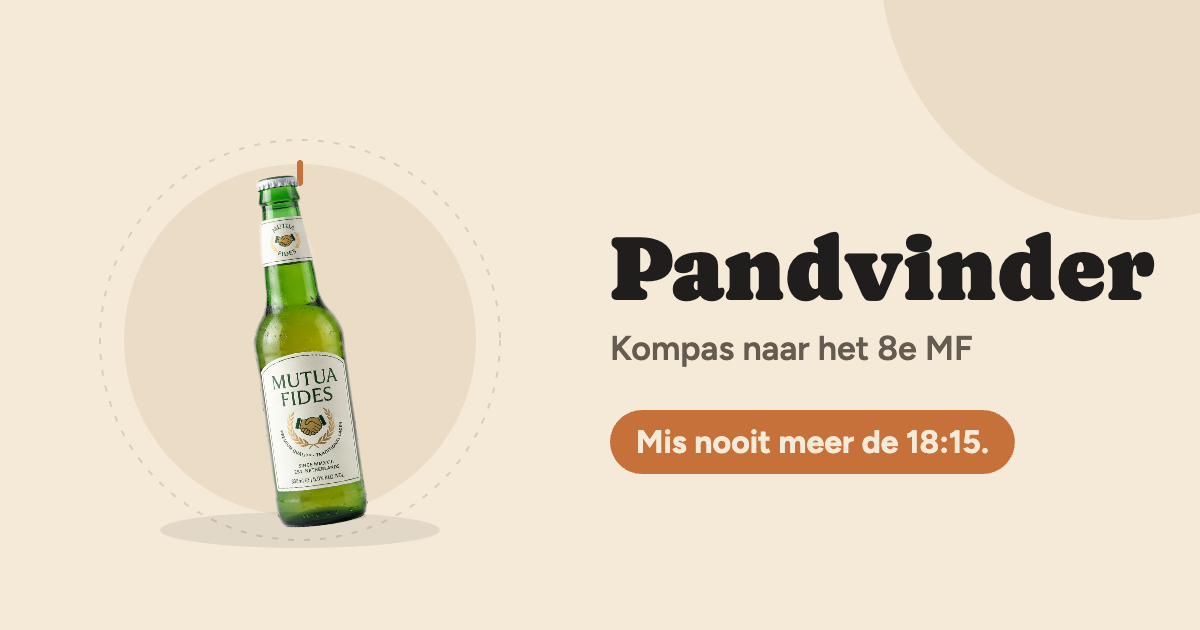
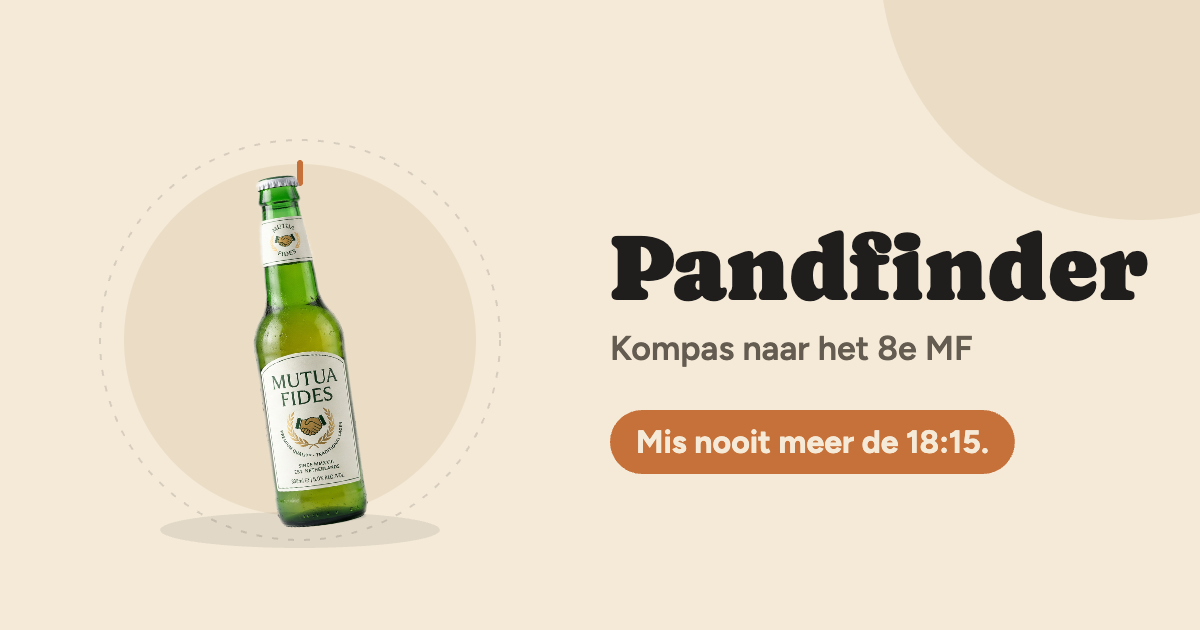
Rename the app to Pandfinder everywhere

Changed region(s): [[0.555, 0.3619, 0.9867, 0.4825], [0.5242, 0.3619, 0.555, 0.3921]]

diff --git a/index.html b/index.html
@@ -10,23 +10,23 @@
 <meta name="theme-color" content="#f5ead8">
 <meta name="mobile-web-app-capable" content="yes">
 <meta name="apple-mobile-web-app-capable" content="yes">
-<meta name="apple-mobile-web-app-title" content="Pandvinder">
+<meta name="apple-mobile-web-app-title" content="Pandfinder">
 <meta name="apple-mobile-web-app-status-bar-style" content="default">
 <link rel="preconnect" href="https://fonts.googleapis.com">
 <link rel="preconnect" href="https://fonts.gstatic.com" crossorigin>
 <link rel="stylesheet" href="https://fonts.googleapis.com/css2?family=Caprasimo&family=Figtree:wght@400;600;700&display=swap">
-<title>Pandvinder - kompas naar het 8e MF</title>
+<title>Pandfinder - kompas naar het 8e MF</title>
 <meta name="description" content="Een kompas dat altijd naar Mutua Fides in Groningen wijst. Mis nooit meer de 18:15.">
 <meta property="og:type" content="website">
 <meta property="og:url" content="https://pandfinder.nl">
-<meta property="og:title" content="Pandvinder">
+<meta property="og:title" content="Pandfinder">
 <meta property="og:description" content="Een kompas dat altijd naar Mutua Fides in Groningen wijst. Mis nooit meer de 18:15.">
 <meta property="og:image" content="https://pandfinder.nl/og-image.png">
 <meta property="og:image:width" content="1200">
 <meta property="og:image:height" content="630">
 <meta property="og:locale" content="nl_NL">
 <meta name="twitter:card" content="summary_large_image">
-<meta name="twitter:title" content="Pandvinder">
+<meta name="twitter:title" content="Pandfinder">
 <meta name="twitter:description" content="Een kompas dat altijd naar Mutua Fides in Groningen wijst. Mis nooit meer de 18:15.">
 <meta name="twitter:image" content="https://pandfinder.nl/og-image.png">
 <style>
@@ -1064,7 +1064,7 @@
   <!-- Start screen -->
   <div class="screen active" id="start-screen">
     <img src="mutua-fides-bottle.png" alt="" style="width:96px;height:auto;transform:rotate(-8deg);margin-bottom:20px;">
-    <h1>Pandvinder</h1>
+    <h1>Pandfinder</h1>
     <p class="sub">Wijst de weg naar het 8e pand, waar je ook bent ter wereld. Heeft locatie- en kompastoestemming nodig.</p>
     <button class="primary" id="start-btn">Wijs me de weg</button>
     <button type="button" class="install-btn" id="install-btn" hidden>Installeer als app</button>
@@ -1707,7 +1707,7 @@
   });
   celebrateShareBtn.addEventListener("click", async () => {
     const state = loadWitness();
-    const text = `Ik heb 18:15 net weer gehaald bij Pandvinder - ${state.streak} op rij!`;
+    const text = `Ik heb 18:15 net weer gehaald bij Pandfinder - ${state.streak} op rij!`;
     if (navigator.share) {
       try { await navigator.share({ text }); } catch (e) { /* user cancelled - ignore */ }
     } else {
@@ -1909,7 +1909,7 @@
 
   function onPositionError(err) {
     if (err && err.code === err.PERMISSION_DENIED) {
-      showError("Locatie niet beschikbaar", "Pandvinder kon je locatie niet gebruiken. Controleer of locatievoorzieningen zijn ingeschakeld en toestemming is verleend, en probeer het opnieuw.");
+      showError("Locatie niet beschikbaar", "Pandfinder kon je locatie niet gebruiken. Controleer of locatievoorzieningen zijn ingeschakeld en toestemming is verleend, en probeer het opnieuw.");
     } else {
       // Transient (timeout / temporarily unavailable, e.g. indoors) - keep watching.
       warningEl.textContent = "Wachten op GPS-signaal…";
@@ -1988,7 +1988,7 @@
 
   function startWatchingPosition() {
     if (!("geolocation" in navigator)) {
-      showError("Geen GPS beschikbaar", "Dit apparaat of deze browser ondersteunt geen locatietoegang, die Pandvinder nodig heeft om Vindicat te vinden.");
+      showError("Geen GPS beschikbaar", "Dit apparaat of deze browser ondersteunt geen locatietoegang, die Pandfinder nodig heeft om Vindicat te vinden.");
       return false;
     }
     watchId = navigator.geolocation.watchPosition(onPosition, onPositionError, {
@@ -2002,7 +2002,7 @@
   function startWatchingOrientation() {
     const hasOrientation = "DeviceOrientationEvent" in window;
     if (!hasOrientation) {
-      showError("Geen kompas beschikbaar", "Dit apparaat lijkt geen oriëntatiesensor te hebben, die Pandvinder nodig heeft om de weg te wijzen.");
+      showError("Geen kompas beschikbaar", "Dit apparaat lijkt geen oriëntatiesensor te hebben, die Pandfinder nodig heeft om de weg te wijzen.");
       return false;
     }
     if (orientationEventName) {
@@ -2018,8 +2018,8 @@
         showError(
           "Kompas reageert niet",
           isIOSNonSafari
-            ? `Pandvinder ontvangt geen kompasgegevens. ${iosMotionHint}`
-            : "Pandvinder ontvangt geen kompasgegevens. Gebruik je Firefox? Controleer dan Instellingen → Sitemachtigingen → bewegings- en lichtsensoren, of probeer het in Chrome. Zorg er anders voor dat bewegings- en oriëntatietoegang voor deze site is toegestaan, en probeer het opnieuw."
+            ? `Pandfinder ontvangt geen kompasgegevens. ${iosMotionHint}`
+            : "Pandfinder ontvangt geen kompasgegevens. Gebruik je Firefox? Controleer dan Instellingen → Sitemachtigingen → bewegings- en lichtsensoren, of probeer het in Chrome. Zorg er anders voor dat bewegings- en oriëntatietoegang voor deze site is toegestaan, en probeer het opnieuw."
         );
       }
     }, 6000);
@@ -2038,8 +2038,8 @@
           showError(
             "Kompastoestemming geweigerd",
             isIOSNonSafari
-              ? `Pandvinder heeft toegang tot beweging en oriëntatie nodig om als kompas te werken. ${iosMotionHint}`
-              : "Pandvinder heeft toegang tot beweging en oriëntatie nodig om als kompas te werken. Sta dit toe in je browserinstellingen en probeer het opnieuw."
+              ? `Pandfinder heeft toegang tot beweging en oriëntatie nodig om als kompas te werken. ${iosMotionHint}`
+              : "Pandfinder heeft toegang tot beweging en oriëntatie nodig om als kompas te werken. Sta dit toe in je browserinstellingen en probeer het opnieuw."
           );
           return;
         }
@@ -2048,8 +2048,8 @@
       showError(
         "Kompastoestemming geweigerd",
         isIOSNonSafari
-          ? `Pandvinder heeft toegang tot beweging en oriëntatie nodig om als kompas te werken. ${iosMotionHint}`
-          : "Pandvinder heeft toegang tot beweging en oriëntatie nodig om als kompas te werken. Sta dit toe in je browserinstellingen en probeer het opnieuw."
+          ? `Pandfinder heeft toegang tot beweging en oriëntatie nodig om als kompas te werken. ${iosMotionHint}`
+          : "Pandfinder heeft toegang tot beweging en oriëntatie nodig om als kompas te werken. Sta dit toe in je browserinstellingen en probeer het opnieuw."
       );
       return;
     }
@@ -2271,11 +2271,11 @@
         installPrompt = null;
         installBtn.hidden = true;
       } else if (isIOS) {
-        showAlert("Installeer Pandvinder", isIOSNonSafari
+        showAlert("Installeer Pandfinder", isIOSNonSafari
           ? "Tik op het deel-icoon (vierkantje met pijl) in de adresbalk of het menu en kies 'Zet op beginscherm'. Lukt dat niet? Open pandfinder.nl in Safari en doe dit daar."
           : "Tik op het deel-icoon (vierkantje met pijl) onderin en kies 'Zet op beginscherm'.");
       } else {
-        showAlert("Installeer Pandvinder", "Open het browsermenu (⋮) en kies 'App installeren' of 'Toevoegen aan startscherm'.");
+        showAlert("Installeer Pandfinder", "Open het browsermenu (⋮) en kies 'App installeren' of 'Toevoegen aan startscherm'.");
       }
     });
   }
@@ -2509,7 +2509,7 @@
       <div class="online-avatars">${avatars}</div>
       <div class="online-summary-text">
         <strong>${online.friends.length}</strong> ${friendWord} nu online
-        <br>${online.total} in totaal op Pandvinder nu
+        <br>${online.total} in totaal op Pandfinder nu
       </div>
     `;
   }
@@ -2723,7 +2723,7 @@
   async function inviteFriend() {
     const group = activeGroup();
     if (!group || !group.join_code) return;
-    const text = `Doe mee met onze 18:15-groep op Pandvinder. Voer code ${group.join_code} in.`;
+    const text = `Doe mee met onze groep op Pandfinder! Voer code ${group.join_code} in.`;
     const url = `${window.location.origin}${window.location.pathname}`;
     if (navigator.share) {
       try { await navigator.share({ text, url }); return; } catch (e) { /* fall through to copy */ }

diff --git a/privacy.html b/privacy.html
@@ -7,7 +7,7 @@
 <link rel="preconnect" href="https://fonts.googleapis.com">
 <link rel="preconnect" href="https://fonts.gstatic.com" crossorigin>
 <link rel="stylesheet" href="https://fonts.googleapis.com/css2?family=Caprasimo&family=Figtree:wght@400;600;700&display=swap">
-<title>Privacybeleid - Pandvinder</title>
+<title>Privacybeleid - Pandfinder</title>
 <style>
   :root {
     --bg: #f5ead8;
@@ -68,25 +68,25 @@
 </head>
 <body>
 <main>
-  <a class="back" href="index.html">← Terug naar Pandvinder</a>
+  <a class="back" href="index.html">← Terug naar Pandfinder</a>
   <h1>Privacybeleid</h1>
   <p class="updated">Laatst bijgewerkt: 2 september 2026</p>
 
   <div class="note" id="ads-status-note"></div>
 
-  <h2>Wat Pandvinder zelf doet</h2>
+  <h2>Wat Pandfinder zelf doet</h2>
   <p>
-    Pandvinder gebruikt je locatie (GPS) en de oriëntatiesensor (kompas) van je
+    Pandfinder gebruikt je locatie (GPS) en de oriëntatiesensor (kompas) van je
     telefoon om een pijl te tonen die naar Vindicat atque Polit in Groningen
     wijst. Deze gegevens worden uitsluitend lokaal op je eigen apparaat
-    verwerkt om de pijl te berekenen. Pandvinder heeft geen server en stuurt
+    verwerkt om de pijl te berekenen. Pandfinder heeft geen server en stuurt
     je locatie- of sensorgegevens niet door naar ons of naar derden.
   </p>
 
   <h2>Groep (optioneel)</h2>
   <p>
     Als je ervoor kiest een groep te starten of via een uitnodigingslink te
-    joinen, maakt Pandvinder een anonieme, apparaatgebonden identiteit voor je
+    joinen, maakt Pandfinder een anonieme, apparaatgebonden identiteit voor je
     aan (zonder wachtwoord of e-mailadres) en slaat de naam die je opgeeft,
     samen met je streak-cijfers, op bij onze database-provider Supabase zodat
     groepsgenoten dit kunnen zien. Zonder deze stap gebeurt hier niets - je
@@ -97,7 +97,7 @@
 
   <h2>Advertenties en cookies (Google AdSense)</h2>
   <p>
-    Als advertenties op Pandvinder zijn ingeschakeld, gebruikt deze site
+    Als advertenties op Pandfinder zijn ingeschakeld, gebruikt deze site
     Google AdSense om advertenties te tonen. Google en haar partners kunnen
     hierbij cookies of vergelijkbare technieken plaatsen om advertenties te
     personaliseren en de prestaties ervan te meten. Voordat dit gebeurt, vragen
@@ -128,8 +128,8 @@
 <script src="version.js"></script>
 <script>
   document.getElementById("ads-status-note").textContent = ADS_ENABLED
-    ? "Advertenties staan momenteel aan op Pandvinder."
-    : "Op dit moment staan advertenties uitgeschakeld op Pandvinder. Dit beleid is opgenomen voor het geval dat verandert.";
+    ? "Advertenties staan momenteel aan op Pandfinder."
+    : "Op dit moment staan advertenties uitgeschakeld op Pandfinder. Dit beleid is opgenomen voor het geval dat verandert.";
 </script>
 </body>
 </html>

diff --git a/config.js b/config.js
@@ -1,4 +1,4 @@
-// Master switch for ad monetization on Pandvinder.
+// Master switch for ad monetization on Pandfinder.
 //
 // Set ADS_ENABLED to true once Google AdSense has approved the site and
 // you've filled in your publisher ID below, then commit + push to redeploy.

diff --git a/version.js b/version.js
@@ -1,4 +1,4 @@
-const APP_VERSION = "V1.13";
+const APP_VERSION = "V1.14";
 
 document.addEventListener("DOMContentLoaded", () => {
   const el = document.createElement("div");
